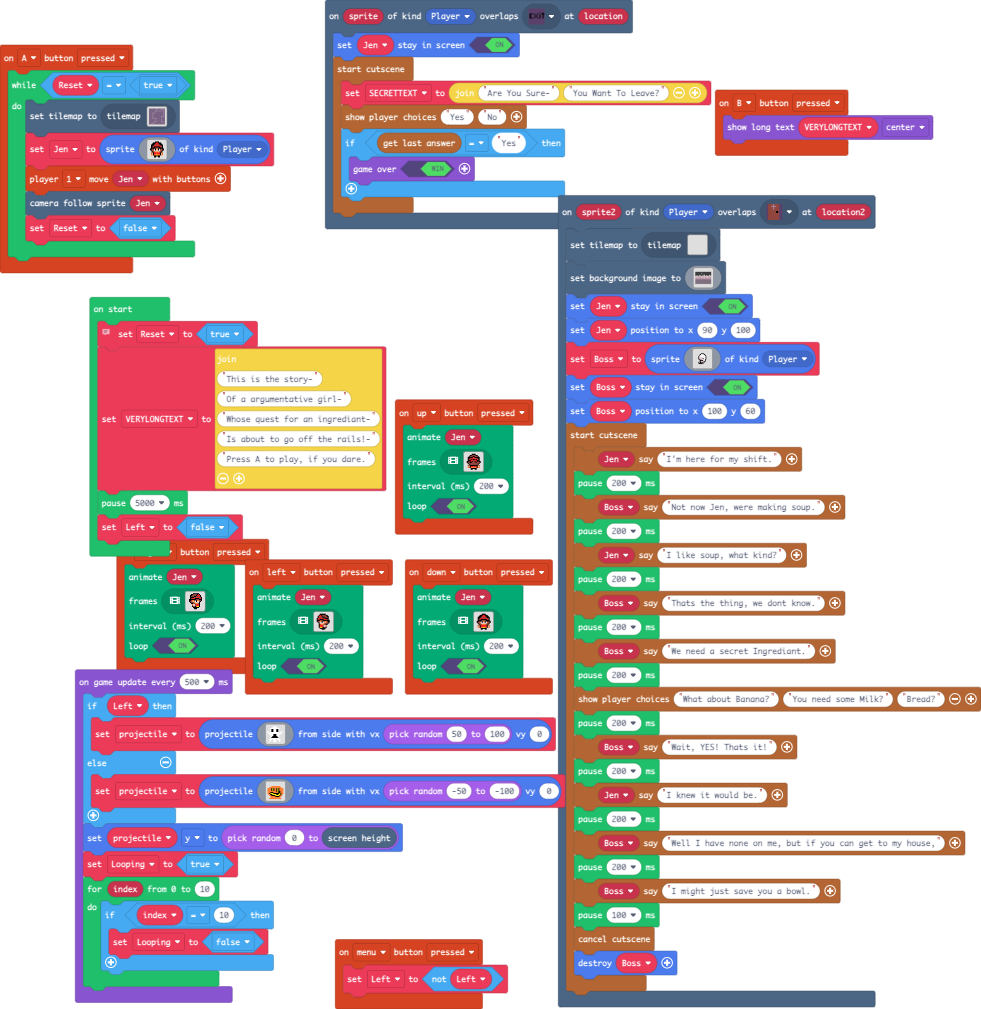
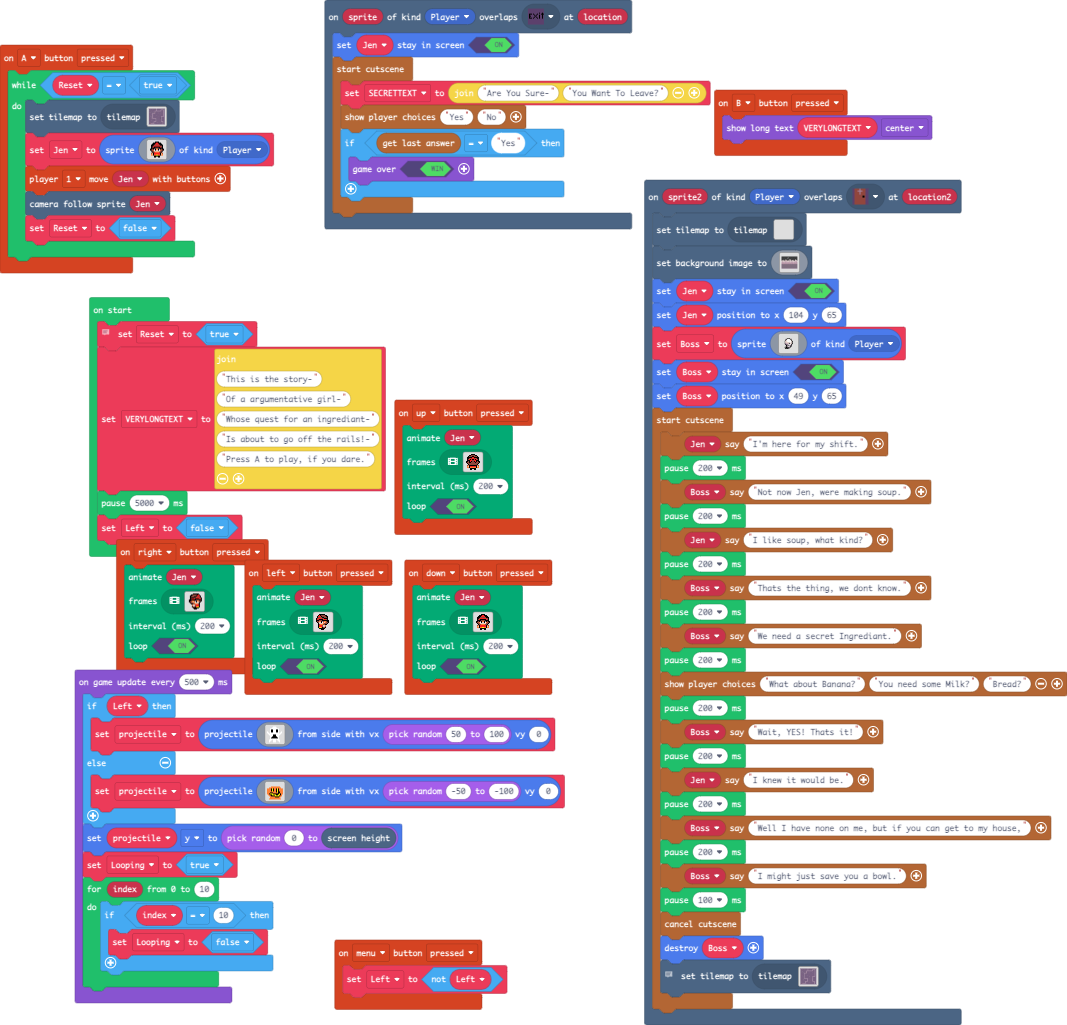
Update main.blocks, main.ts, tilemap.g.jres, tilemap.g.ts

diff --git a/tilemap.g.ts b/tilemap.g.ts
@@ -57,25 +57,6 @@ namespace myTiles {
 
     helpers._registerFactory("tilemap", function(name: string) {
         switch(helpers.stringTrim(name)) {
-            case "level2":
-            case "level2":return tiles.createTilemap(hex`1000100000000000000000000000000000000000000000000000000000000000000000000000000000000000000000000000000000000000000000000000000000000000000000000000000000000000000000000000000000000000000000000000000000000000000000000000000000000000000000000000000000000000000000000000000000000000000000000000000000000000000000000000000000000000000000000000000000000000000000000000000000000000000000000000000000000000000000000000000000000000000000000000000000000000000000000000000000000000000000000000000000000000000000000000000000000000`, img`
-. . . . . . . . . . . . . . . . 
-. . . . . . . . . . . . . . . . 
-. . . . . . . . . . . . . . . . 
-. . . . . . . . . . . . . . . . 
-. . . . . . . . . . . . . . . . 
-. . . . . . . . . . . . . . . . 
-. . . . . . . . . . . . . . . . 
-. . . . . . . . . . . . . . . . 
-. . . . . . . . . . . . . . . . 
-. . . . . . . . . . . . . . . . 
-. . . . . . . . . . . . . . . . 
-. . . . . . . . . . . . . . . . 
-. . . . . . . . . . . . . . . . 
-. . . . . . . . . . . . . . . . 
-. . . . . . . . . . . . . . . . 
-. . . . . . . . . . . . . . . . 
-`, [myTiles.transparency16], TileScale.Sixteen);
             case "level1":
[1 lines of base64/hex data omitted]
 222222222222222222222222222222..22222222222222222222222222222222
@@ -143,6 +124,48 @@ namespace myTiles {
 22222222222222222222222222222222222222222222222222222222..222222
 2222222222222222222222222222222222222222222222222222222222222222
 `, [myTiles.transparency16,myTiles.tile1,myTiles.tile3,myTiles.tile4,myTiles.tile6,myTiles.tile7,myTiles.tile8,myTiles.tile9,myTiles.tile10,myTiles.tile11,myTiles.tile12,myTiles.tile13,myTiles.tile15,myTiles.tile16,myTiles.tile17,myTiles.tile19,myTiles.tile20,myTiles.tile21,myTiles.tile22,myTiles.tile23,sprites.swamp.swampTile16,myTiles.tile24,myTiles.tile25,myTiles.tile26], TileScale.Sixteen);
+            case "level3":
+            case "level3":return tiles.createTilemap(hex`1000100000000000000000000000000000000000000000000000000000000000000000000000000000000000000000000000000000000000000000000000000000000000000000000000000000000000000000000000000000000000000000000000000000000000000000000000000000000000000000000000000000000000000000000000000000000000000000000000000000000000000000000000000000000000000000000000000000000000000000000000000000000000000000000000000000000000000000000000000000000000000000000000000000000000000000000000000000000000000000000000000000000000000000000000000000000000`, img`
+. . . . . . . . . . . . . . . . 
+. . . . . . . . . . . . . . . . 
+. . . . . . . . . . . . . . . . 
+. . . . . . . . . . . . . . . . 
+. . . . . . . . . . . . . . . . 
+. . . . . . . . . . . . . . . . 
+. . . . . . . . . . . . . . . . 
+. . . . . . . . . . . . . . . . 
+. . . . . . . . . . . . . . . . 
+. . . . . . . . . . . . . . . . 
+. . . . . . . . . . . . . . . . 
+. . . . . . . . . . . . . . . . 
+. . . . . . . . . . . . . . . . 
+. . . . . . . . . . . . . . . . 
+. . . . . . . . . . . . . . . . 
+. . . . . . . . . . . . . . . . 
+`, [myTiles.transparency16], TileScale.Sixteen);
+            case "level2":
+            case "level2":return tiles.createTilemap(hex`0100010000`, img`
+. 
+`, [myTiles.transparency16], TileScale.Sixteen);
+            case "level4":
+            case "level4":return tiles.createTilemap(hex`1000100000000000000000000000000000000000000000000000000000000000000000000000000000000000000000000000000000000000000000000000000000000000000000000000000000000000000000000000000000000000000000000000000000000000000000000000000000000000000000000000000000000000000000000000000000000000000000000000000000000000000000000000000000000000000000000000000000000000000000000000000000000000000000000000000000000000000000000000000000000000000000000000000000000000000000000000000000000000000000000000000000000000000000000000000000000000`, img`
+. . . . . . . . . . . . . . . . 
+. . . . . . . . . . . . . . . . 
+. . . . . . . . . . . . . . . . 
+. . . . . . . . . . . . . . . . 
+. . . . . . . . . . . . . . . . 
+. . . . . . . . . . . . . . . . 
+. . . . . . . . . . . . . . . . 
+. . . . . . . . . . . . . . . . 
+. . . . . . . . . . . . . . . . 
+. . . . . . . . . . . . . . . . 
+. . . . . . . . . . . . . . . . 
+. . . . . . . . . . . . . . . . 
+. . . . . . . . . . . . . . . . 
+. . . . . . . . . . . . . . . . 
+. . . . . . . . . . . . . . . . 
+. . . . . . . . . . . . . . . . 
+`, [myTiles.transparency16], TileScale.Sixteen);
         }
         return null;
     })

diff --git a/main.ts b/main.ts
@@ -238,7 +238,7 @@ scene.onOverlapTile(SpriteKind.Player, assets.tile`myTile21`, function (sprite2,
         cccccccccccccccccccccccccccccccccccccccccccccccccccccccccccccccccccccccccccccccccccccccccccccccccccccccccccccccccccccccccccccccccccccccccccccccccccccccccccccccc
         `)
     Jen.setStayInScreen(true)
-    Jen.setPosition(90, 100)
+    Jen.setPosition(104, 65)
     Boss = sprites.create(img`
         ........................
         ........................
@@ -266,7 +266,7 @@ scene.onOverlapTile(SpriteKind.Player, assets.tile`myTile21`, function (sprite2,
         ........................
         `, SpriteKind.Player)
     Boss.setStayInScreen(true)
-    Boss.setPosition(100, 60)
+    Boss.setPosition(49, 65)
     story.startCutscene(function () {
         story.spriteSayText(Jen, "I'm here for my shift.")
         pause(200)
@@ -290,6 +290,8 @@ scene.onOverlapTile(SpriteKind.Player, assets.tile`myTile21`, function (sprite2,
         pause(100)
         story.cancelCurrentCutscene()
         Boss.destroy()
+        // takes you out of cutcene.
+        tiles.setCurrentTilemap(tilemap`level1`)
     })
 })
 controller.left.onEvent(ControllerButtonEvent.Pressed, function () {
